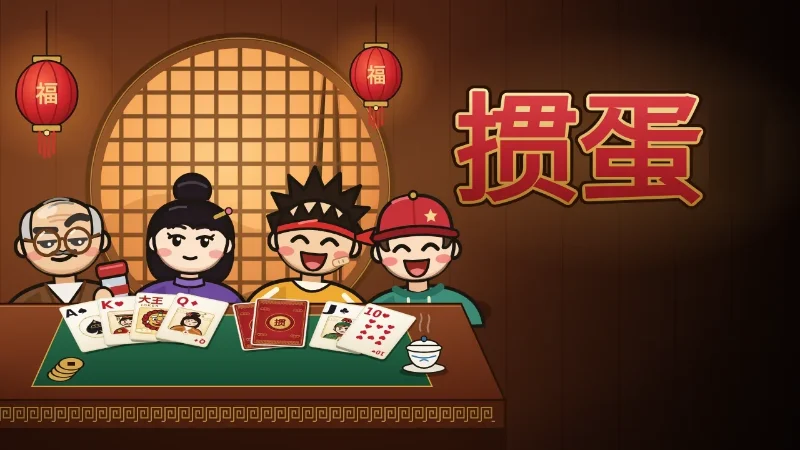
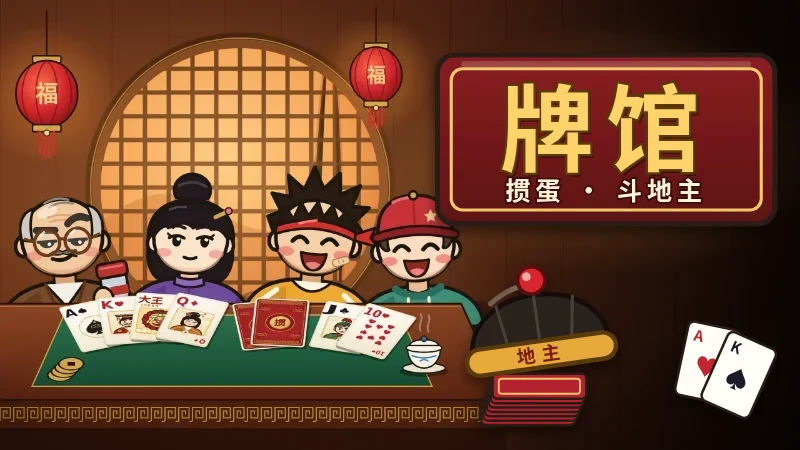
platform: 0.26.3 牌馆、雀馆的大厅封面 (#409)
## 做了什么（所有者：封面上的字还是"掼蛋""川麻·血战到底"）

- **牌馆**：
  - 画风沿用原来的掼蛋封面，底图就是它（掼蛋 `tools/cover.ts` 生成的原创图）。
  - 右边原来的"掼蛋"大字，用一块红底金字的招牌盖住，写"牌馆"，副标题"掼蛋 · 斗地主"。
  - 桌边加了一摞牌（掼蛋）、两张牌，牌堆上一顶写着"地主"的黑缎瓜皮帽（斗地主）。全是手写 SVG，没有外部素材。
- **雀馆**：照抄麻将模块手写的 `cover.svg`，只把副标题改成"血战到底 · 立直"。
- **源文件**：两张的 SVG 放在 `platform/tools/covers/`，用平台现有的 `npm run cover --
--from=tools/covers/<id>.svg --id=<id>` 光栅化成 800×450 的 webp。
- **文档**：ASSETS.md 记了两张的来源和重新生成的命令；README 目录一行；CHANGELOG 0.26.3。

## 自测

- 冒烟只跑了相关的 `--only=desk`（大厅 1280、1920、2560 和手机），通过，控制台零报错。
- 截图在
`.local/qa/platform/cov1/`：`01-home-desk-1280.png`、`10-home-phone.png`。
- 构建通过，check-isolation 通过；diff 只有 `platform/`。

🤖 Generated with [Claude Code](https://claude.com/claude-code)

Changed region(s): [[0.5312, 0.0933, 0.9688, 0.5289], [0.5625, 0.5911, 0.7812, 0.9644], [0.8438, 0.7156, 0.9688, 0.9333]]

diff --git a/platform/ASSETS.md b/platform/ASSETS.md
@@ -4,13 +4,13 @@
 
 ## 大厅封面 `public/covers/<id>.webp`（16:9）
 
-统一 800×450：卡片最宽约 350 像素，手机 2 倍屏也够。德州按这个尺寸从 SVG 直接渲染；开盘、掼蛋给的大图用 `npm run cover -- --shrink` 缩；麻将给的是 SVG，用 `npm run cover -- --from=<SVG> --id=mahjong` 光栅化。
+统一 800×450：卡片最宽约 350 像素，手机 2 倍屏也够。德州按这个尺寸从 SVG 直接渲染；开盘、掼蛋给的大图用 `npm run cover -- --shrink` 缩；麻将、牌馆的 SVG 源文件在 `tools/covers/`，用 `npm run cover -- --from=<SVG> --id=<游戏>` 光栅化。
 
 | 封面 | 来源 |
 |---|---|
 | `texas.webp` | 本仓库程序生成：`tools/cover.ts` 画 SVG（人物、牌、筹码、牌桌都是代码里的几何图形），用无头 Chromium 光栅化成 800×450 的 webp。标题是 Noto Sans CJK SC Bold（SIL Open Font License 1.1，允许用在图片里）光栅化进图里，不随网页分发字体文件；换机器重新生成时字体不同，字形会略有差别。人物是德州单机里的电脑（稳哥、阿飙、老好、慢慢），不画真实的人、真实的牌桌或品牌。改图后 `npm run cover` 重新生成 |
-| `mahjong.webp` | 麻将模块原创：麻将模块手写的 `games/mahjong/public/cover.svg`（麻将的素材说明里写着手写的 SVG，没有外部素材）。在仓库根执行 `cd platform && npm run cover -- --from=../games/mahjong/public/cover.svg --id=mahjong`，用无头 Chromium 光栅化成 800×450 的 webp。SVG 里的中文（"雀馆""一萬""川麻·血战到底"）用系统字体，本机光栅化时是 Noto Sans CJK SC（SIL Open Font License 1.1，允许用在图片里），不随网页分发字体文件。麻将改了封面就照这条命令重新生成 |
-| `guandan.webp` | 掼蛋模块程序生成：掼蛋模块的 `tools/cover.ts` 从游戏里同一套原创 SVG 渲染（掼蛋 README 里有说明），转成 webp 放到这里 |
+| `mahjong.webp` | 麻将模块原创：照抄麻将模块手写的 `games/mahjong/public/cover.svg`（麻将的素材说明里写着手写的 SVG，没有外部素材），平台只把副标题换成"血战到底 · 立直"，存成 `tools/covers/mahjong.svg`；在 platform 目录执行 `npm run cover -- --from=tools/covers/mahjong.svg --id=mahjong`，用无头 Chromium 光栅化成 800×450 的 webp。SVG 里的中文（"雀馆""一萬""血战到底 · 立直"）用系统字体，本机光栅化时是 Noto Sans CJK SC（SIL Open Font License 1.1，允许用在图片里），不随网页分发字体文件。麻将改了封面就重新抄一份、照这条命令生成 |
+| `guandan.webp` | 牌馆：底图是掼蛋模块程序生成的封面（掼蛋 `tools/cover.ts` 从游戏里同一套原创 SVG 渲染，掼蛋 README 里有说明），平台在 `tools/covers/guandan.svg` 里把它当底图嵌进去，右边换成手写 SVG 画的招牌（"牌馆"，副标题"掼蛋 · 斗地主"）、一摞牌、两张牌和一顶写着"地主"的瓜皮帽，没有外部素材；在 platform 目录执行 `npm run cover -- --from=tools/covers/guandan.svg --id=guandan` 光栅化成 800×450 的 webp。中文用系统字体（同上，Noto Sans CJK SC），不随网页分发 |
 | `racing.webp` | 《飞驰》的贡献者自绘：游戏模块手写的 `games/racing/public/cover.svg`（MIT，随游戏模块一起提交），平台用 `npm run cover -- --from=<SVG> --id=racing` 光栅化成 800×450 webp |
 | `yexun.webp` | 夜巡模块程序生成，来源见夜巡 `ASSETS.md`：`games/yexun/public/cover.webp`（夜巡 `tools/cover.ts` 生成，800×450；字体马善政楷书，SIL Open Font License 1.1），平台原样复制。夜巡改了封面就重新复制 |
 | `kaipan.webp` | 开盘原创：就是开盘标题页的主视觉 `title_keyart.svg` 按 960×540 渲染、再缩到 800×450。来源和许可同开盘的其余素材：原创，无第三方素材或字体。详见开盘模块美术说明（`public/assets/art/README.md`）里的"大厅封面"一节 |

diff --git a/platform/CHANGELOG.md b/platform/CHANGELOG.md
@@ -2,6 +2,14 @@
 
 更早的版本没有单独的更新日志：各版本做了什么，见 `docs/platform-backend.md` 各节里的版本标注。
 
+## 0.26.3 — 2026-10-21
+
+牌馆、雀馆的大厅封面（所有者：封面上的字还是"掼蛋""川麻·血战到底"）：
+
+- 牌馆：沿用原来掼蛋封面的画面，右边换成一块招牌"牌馆"、副标题"掼蛋 · 斗地主"，桌边加一摞牌和一顶写着"地主"的瓜皮帽。
+- 雀馆：照麻将模块原来的封面，副标题改成"血战到底 · 立直"。
+- 两张的 SVG 源文件放在 `tools/covers/`，用 `npm run cover -- --from=… --id=…` 重新生成；来源写进 ASSETS.md。
+
 ## 0.26.2 — 2026-10-21
 
 好友页和动态页（所有者：好友页被动态列表撑得很长，管理的东西压到了最下面）：

diff --git a/platform/README.md b/platform/README.md
@@ -188,7 +188,7 @@ platform/
 ├─ public/              静态资源：_headers（CSP 等安全头）、covers/（游戏封面）、favicon.svg、bg.svg（底色小图案）
 ├─ docs/style.md        配色表和形状质感
 ├─ test/                接口测试（每个接口断言写入行数，docs/platform-backend.md 7.2）
-├─ tools/               smoke.ts 界面冒烟、admin.ts 命令行工具、cover.ts 封面
+├─ tools/               smoke.ts 界面冒烟、admin.ts 命令行工具、cover.ts 封面（covers/ 里是牌馆、雀馆封面的 SVG 源文件）
 ├─ wrangler.jsonc       Worker 配置（不含域名和正式库 id）
 ├─ .dev.vars.example    Secret 一览和本地假值
 ├─ ASSETS.md            素材来源
